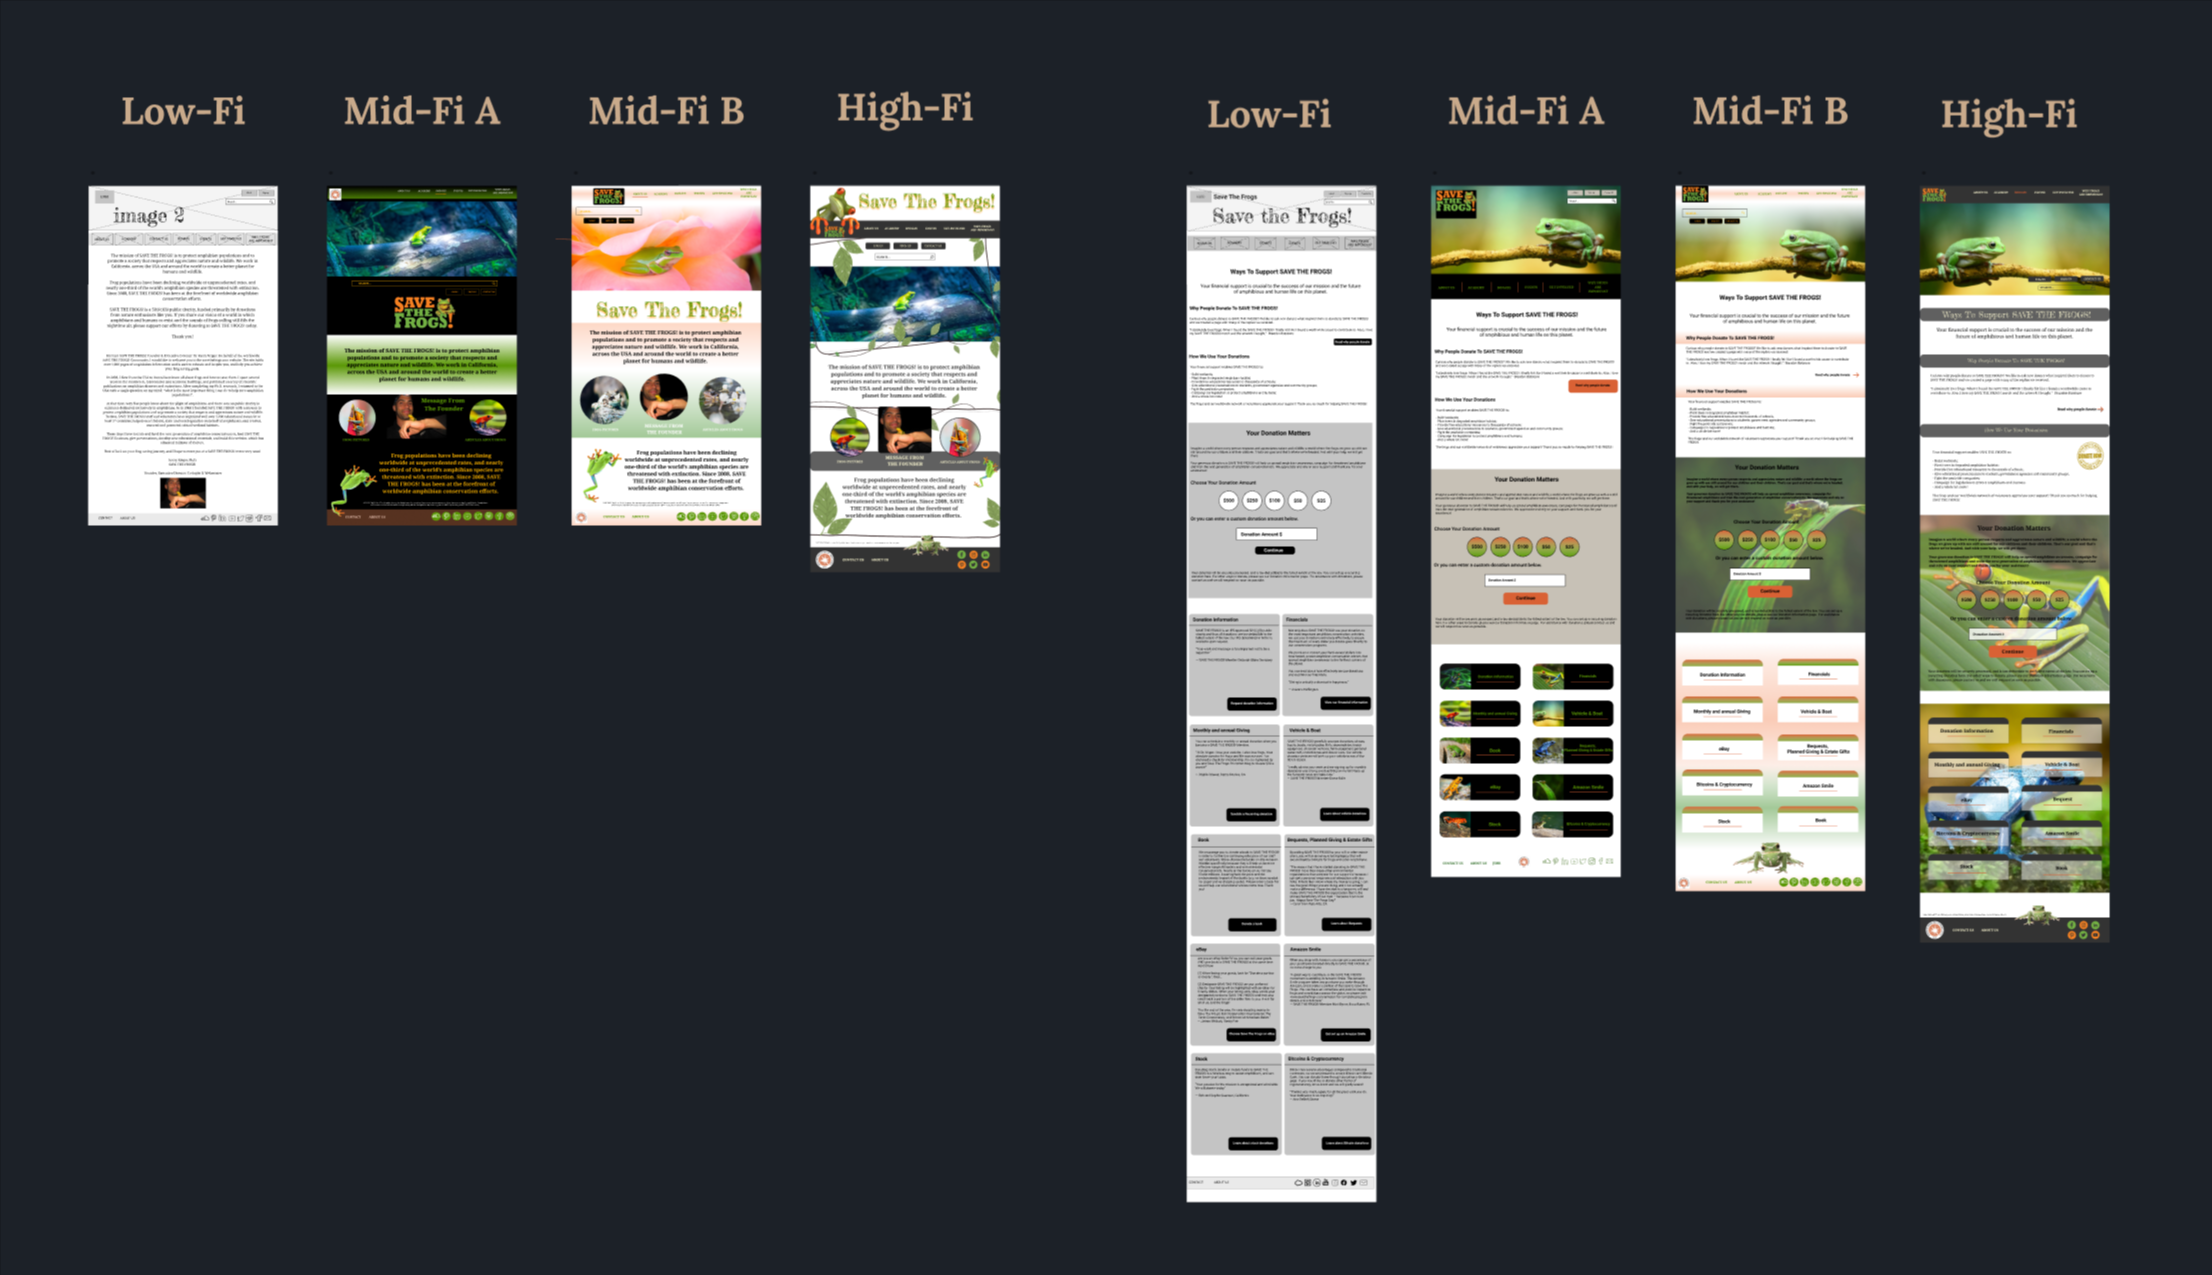
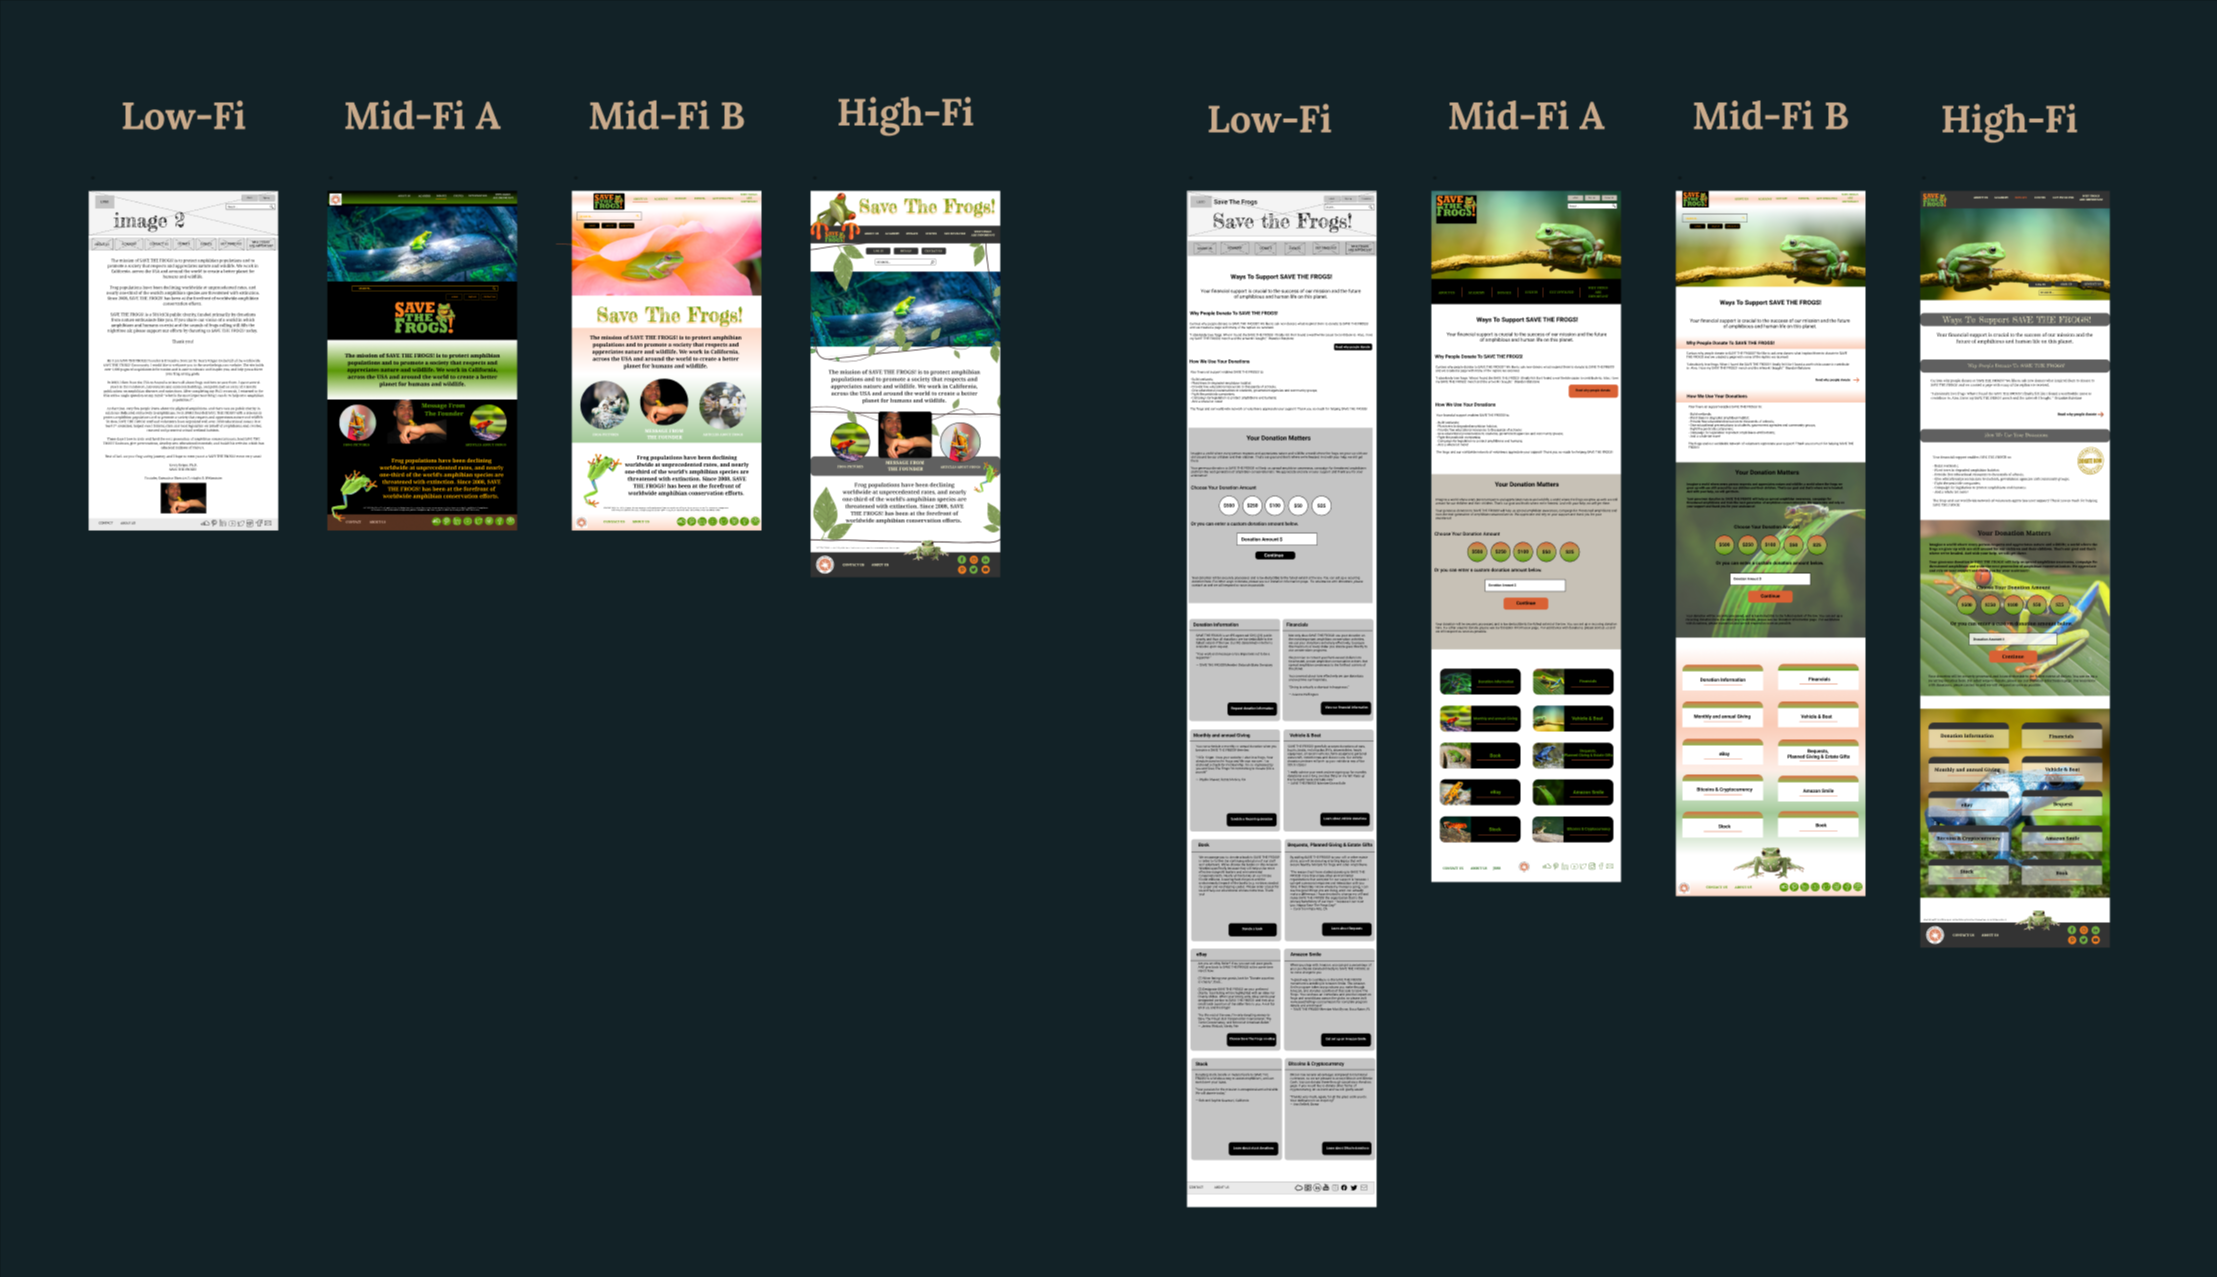
ux_ui_homework_20

Changed region(s): [[0.5303, 0.0612, 0.967, 0.9482], [0.0312, 0.0612, 0.4679, 0.4588]]

diff --git a/index.html b/index.html
@@ -67,10 +67,12 @@
             <h1>Save The Frogs </h1>
         </div>
         <div class="intro"> 
-            <p>We believe that the website design/look and feel, could be improved to bring in more awareness, volunteer interest, and donations for the betterment of amphibian conservation efforts. Based on the usability testing results, it became clear that to improve the UX key flows and refereshing the look, Save The Frogs needs redesigning.</p>
+            <p>To redesign a non-profit website, we chose SAVE THE FROGS due to it’s outdated/problematic design based on the usability testing results. We believe that the website design/look and feel, could be improved to bring in more awareness, volunteer interest, and donations for the betterment of amphibian conservation efforts. Based on the usability testing results, it became clear that to improve the UX key flows and refereshing the look, Save The Frogs needs redesigning.</p>
         </div>
         <div class="role">
-            <h2>My Role: UX/UI designer    Platforms:Mobile,Web   Timeline:Three weeks </h2>
+            <h2>My Role: UX/UI designer</h2>
+            <h2>Platforms: Web & Mobile</h2>
+            <h2>Timeline: Three weeks</h2>
         </div>
         <div class="main">
             <img src="images/frogs2.png">
@@ -78,10 +80,13 @@
    
       </section>
 
+
+      
+
       <div> 
           <div class="titleTwo">
               <h1>Research</h1>
-              <p> Based on the results of the survey Web Design was the highest rated category for needing improvement. Affinitizing our user feedback, allowed us to focus on the areas that spoke to users and the areas that could use improvement</p>
+              <p> Based on the results of the survey, 'Web Design' was the highest rated category (77.8%) for needing improvement. Affinitizing our user feedback, allowed us to focus on the areas that spoke to users and the areas that could use improvement. Here are some of the painpoints of the users: Too much information in all pages, Inconsistency in cards, buttons, and spacing, Irrelevant information in contact page, The background color design is distractive, Redundant information everywhere, Irrelevant picture with the content, and more.</p>
 
           </div>
       </div>
@@ -130,9 +135,9 @@
           <div class="carousel-item">
             <img class="d-block" src="images/map.png" alt="Forth slide">
           </div>
-          <div class="carousel-item">
+          <!-- <div class="carousel-item">
             <img class="d-block" src="images/styletile.png" alt="Second slide">
-          </div>
+          </div> -->
         </div>
         <a class="carousel-control-prev" href="#carouselExampleIndicators" role="button" data-slide="prev">
           <span class="carousel-control-prev-icon" aria-hidden="true"></span>
@@ -146,7 +151,8 @@
 
       <div class="lowhigh">
         <div>
-          <p>Lorem ipsum dolor sit amet consectetur, adipisicing elit. Eos in aut eligendi, odit, consectetur ipsa aspernatur facere qui sunt quibusdam sequi cum corporis, illum recusandae. Cumque molestiae iste quia explicabo!</p>
+          <h1>User Interface Design</h1>
+          <p>Three pages were redesigned: Homepage, contact page, and combination of donate and support pages. Designs were too similar to the original theme with gradients, inconsistent design and colors. User testing feedback - felt it was too focused on distracting colors and not on frogs. Iteration Improvements: Navigation bar, Hero image, White spaces, Cards Styles, Footer, Button colors, Font color, and Interactive Frog page components. </p>
         </div>
 
         <div>
@@ -157,7 +163,7 @@
 
       
 
-      <div class="box">
+      <!-- <div class="box">
           <div class="imgBx"> 
             <img src="images/beforeafter.png">  
          </div>
@@ -165,10 +171,47 @@
                 <p>Considering the pain points of the users,we reduced the number of pages, consolidated content to prevent redundancy, Decluttered the hero image so that users could focus on sections at a time, and simplified the navigation bar (more inline with industry standard/user expectations).</p>
 
             </div>
-      </div>
-       
-      
+      </div> -->
 
+      <div class="beforeafter"> 
+        <p>Considering the pain points of the users,we reduced the number of pages, consolidated content to prevent redundancy, Decluttered the hero image so that users could focus on sections at a time, and simplified the navigation bar (more inline with industry standard/user expectations).</p>
+
+    </div>
+
+     <section class="gif">
+       <div id="before">
+         <h4>Before</h4>
+         <img src="images/gif.gif">
+
+       </div>
+       <div id="after">
+         <h4>After</h4>
+         <img src="images/gif.gif">
+
+       </div>
+     </section>
+
+     <div class="card text-center">
+      <div class="card-header">
+        Featured
+      </div>
+      <div class="card-body">
+        <h5 class="card-title">Web and Mobile Prototype</h5>
+        <p class="card-text">With supporting text below as a natural lead-in to additional content.</p>
+        <a href="#" class="btn">Save The Frogs</a>
+      </div>
+      <div class="card-footer text-muted">
+        2 days ago
+      </div>
+    </div>
+      
+     <div class="key">
+       <h1>Key Learning</h1>
+       <p>Feedback, feedback, feedback - when staring at our work too long it’s hard to see where improvements need to be made, fresh eyes help! Simplification and targeted heuristics can make a BIG impact on the look and feel of a website, plus this can be low-cost option for nonprofits that are constrained by budgets. Nonprofits have to rely on the donations and volunteer efforts, most users were deterred right off the bat due to clunky navigation and color scheme, which ultimately hurts the nonprofit efforts. </p>
+
+     </div>
+
+     
 
       <!-- <section class="footer"> 
         <img class="email" src="images/email.png">

diff --git a/style.css b/style.css
@@ -45,7 +45,7 @@
     font-size: 24px;
     color: #C9AA8B;
     padding-right: 30px;
-    font-weight: 300;
+    font-weight: 500;
    
     
     
@@ -58,14 +58,14 @@
 
 
 .bg-dark{
-    background-color: #1C2128 !important;
+    background-color: #122227 !important;
 }
 .navbar-dark .navbar-nav .nav-link:focus, .navbar-dark .navbar-nav .nav-link:hover {
     color:#DC4625;
 }
 
 .dropdown-menu {
-    background-color: #1C2128 !important;
+    background-color: #122227 !important;
 }
 
 .dropdown-item{
@@ -89,10 +89,10 @@
 
 .intro p{
     font-family: lora;
-    text-align: center;
-    margin-left: 200px;
-    margin-right: 200px;
-    margin-bottom: 100px;
+    text-align: left;
+     margin-left: 100px;
+    margin-right: 100px; 
+    margin-bottom: 50px;
     font-size: 24px;
     
 }
@@ -100,7 +100,7 @@
 .role h2{
     font-family: lora;
     text-align: center;
-    font-size: 24px;
+    font-size: 20px;
     
 }
 
@@ -121,7 +121,7 @@
 
 
 .carousel-inner {
-    background-color: #1C2128;
+    background-color: #122227;
     margin-top: 100px;
     height: 900px;
 
@@ -149,13 +149,25 @@
     font-size: 24px;
 }
 
+.lowhigh h1{
+    text-align:left;
+    font-family: lora;
+    font-size: 36px;
+    margin: 100px;
+    font-weight: bold;
+
+
+}
+
 
 .lowhigh p{
     font-family: lora;
     font-size: 24px;
     margin-top: 100px;
-    margin-bottom: 100px;
-    text-align: center;
+    margin-bottom: 50px;
+    text-align: left;
+    margin-left: 100px;
+    margin-right: 100px;
 
 }
 
@@ -164,30 +176,45 @@
     margin-left: 170px;
     border-radius: 10px 10px 10px 10px;
 }
-.box{
+
+
+
+.beforeafter p{
+    font-family: lora;
+    font-size: 24px;
+    margin-top: 100px;
+    margin-bottom: 50px;
+    text-align: left;
+    margin-left: 50px;
+    margin-right: 50px;
+
+}
+/* .box{
     display: flex;
     margin-top: 200px;
     align-items: center;
     justify-content: center;
     margin-left: 150px;
+    
 }
 
 
 .box .imgBx{
     margin-top: 200px;
     margin-left: 200px;
-    vertical-align: middle;
-   
+    vertical-align: middle; 
 }
+
+
 
 .box .content{
     font-family: lora;
     font-size: 24px; 
     margin-right: 100px;
     margin-top: 100px;
-     padding-left: 100px;
+    padding-left: 100px;
      
-}
+} */
 
 
 /* 
@@ -297,12 +324,122 @@ h6 {
     }
 } */
 
+.gif{
+    margin-top: 50px;
+    margin-bottom: 100px;
 
+}
+#before {
+    float: left;
+    margin-left: 100px;
+    background-color: #122227;
+    border-radius: 20px 20px;
+}
+
+#before h4{
+    font-family: lora;
+    font-size: 32px;
+    color: #C9AA8B;
+    font-weight: 600;
+    margin-left: 20px;
+    margin-bottom: 20px;
+    margin-top: 20px;
+    
+
+}
+#before img{
+    width: 600px;
+    height: 350px;
+    margin-bottom: 80px;
+    
+
+}
+
+#after {
+    float: right;
+    margin-right: 100px;
+    background-color: #122227;
+    border-radius: 20px 20px;
+    
+
+}
+
+#after h4{
+    font-family: lora;
+    font-size: 32px;
+    color: #C9AA8B;
+    font-weight: 600;
+    margin-left: 20px;
+    margin-top: 20px;
+    margin-bottom: 20px;
+
+}
+#after img{
+    width: 600px;
+    height: 350px;
+    margin-bottom: 80px;
+   
+}
+
+.key{
+    margin-top: 100px;
+}
+
+.key h1{
+    text-align:left;
+    font-family: lora;
+    font-size: 36px;
+    margin: 100px;
+    font-weight: bold;
+
+
+}
+
+
+.key p{
+    font-family: lora;
+    font-size: 24px;
+    margin-top: 100px;
+    margin-bottom: 50px;
+    text-align: left;
+    margin-left: 100px;
+    margin-right: 100px;
+
+}
+
+.card {
+    margin-top: 700px;
+    
+}
+
+.card-header {
+    background-color: #122227;
+    
+}
+
+.card-body {
+    background-color: #C9AA8B;
+}
+
+.card-body .card-title{
+    font-family: oswald;
+    font-weight: bold;
+}
+
+.card-body .btn {
+    background-color: #DC4625;
+    font-family: oswald;
+    font-weight: bold;
+}
+
+.card-footer {
+    background-color: #122227;
+}
 .footer {
     font-size: 18px;
     font-family: oswald;
     margin-top: 200px;
-    background-color: #1C2128;
+    background-color: #122227;
     height: 200px;
     
 }
